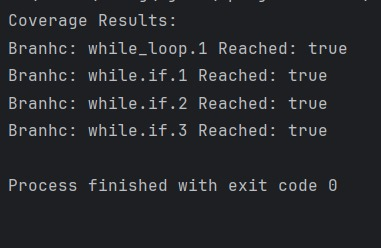
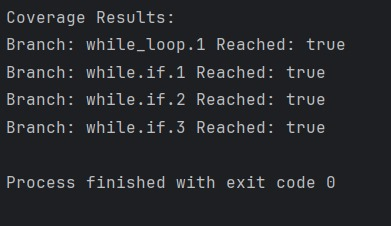
typo modify

diff --git a/src/main/java/com/thealgorithms/maths/FindKthNumber.java b/src/main/java/com/thealgorithms/maths/FindKthNumber.java
@@ -99,7 +99,7 @@ public final class FindKthNumber {
     private static void printCoverageResults() {
         System.out.println("Coverage Results:");
         for (Map.Entry<String, Boolean> entry : coverageMap.entrySet()) {
-            System.out.println("Branhc: " + entry.getKey() + " Reached: " + entry.getValue());
+            System.out.println("Branch: " + entry.getKey() + " Reached: " + entry.getValue());
         }
     }
 }

diff --git a/README.md b/README.md
@@ -52,11 +52,17 @@ https://github.com/cz23in/algorithms/commit/cf4db03aff7a10914858adac5313b8dd874c
 Rui Gao
 
 Function 1 name: findKthMax
-https://github.com/cz23in/algorithms/commit/28ed48d52d7253c67a2eb2cabfb395d8b56355de#diff-da29792920db2b60923338a5dfb1aa3ffc49101330eeec20554be3f4cfcf8735
-![](coverage_screenshots/Rui_function1.jpg)
+[Function 1 commit](https://github.com/cz23in/algorithms/commit/28ed48d52d7253c67a2eb2cabfb395d8b56355de#diff-da29792920db2b60923338a5dfb1aa3ffc49101330eeec20554be3f4cfcf8735
+)
+<p align="left">
+  <img src="coverage_screenshots/Rui_function1.jpg" alt="Description of the image">
+</p>
 
 <Function 2 name>
-![](coverage_screenshots/Rui_function2.jpg)
+[Function 2 commit](https://github.com/cz23in/algorithms/commit/715b924ffc16042cfdb923cd9af57a175c8fccc4#diff-da29792920db2b60923338a5dfb1aa3ffc49101330eeec20554be3f4cfcf8735)
+<p align="left">
+  <img src="coverage_screenshots/Rui_function2.jpg" alt="Description of the image">
+</p>
 
 <Provide the same kind of information provided for Function 1>
 
